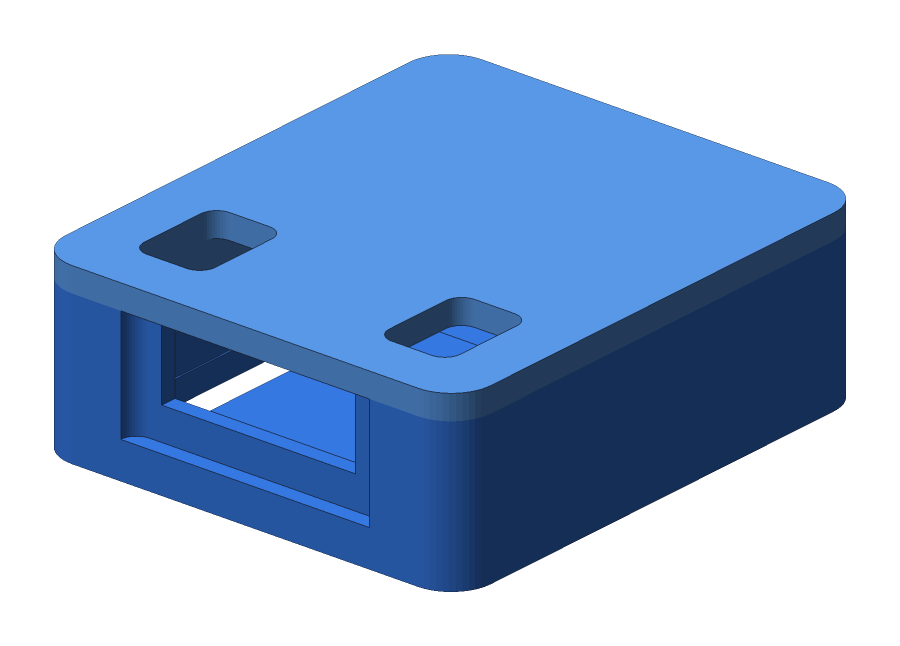
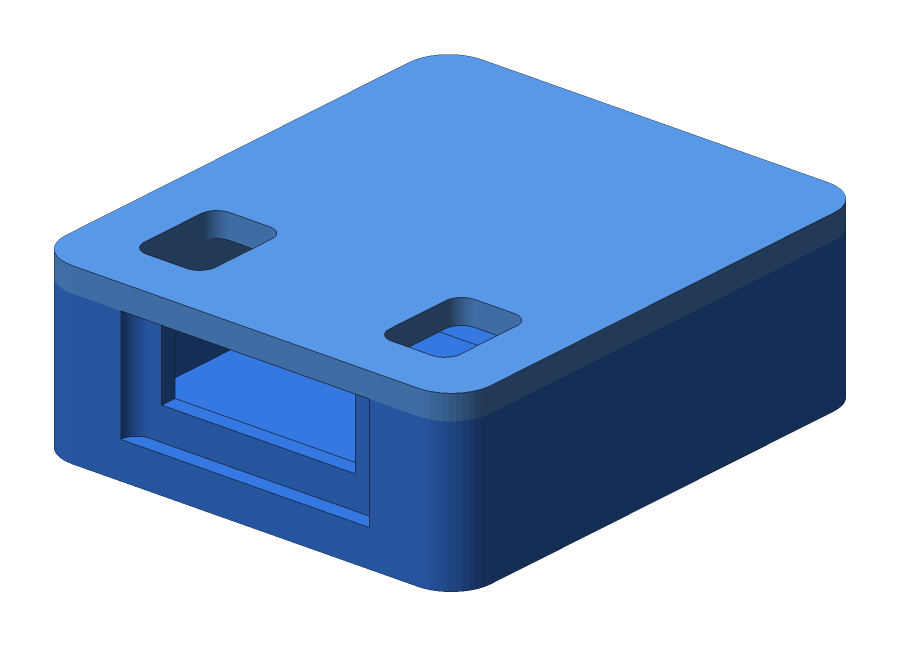
feat: remove header slots from base floor
Add HEADER_SLOTS flag (default False). Floor stays flat; lid LED and
RESET windows are unchanged.

Changed region(s): [[0.1867, 0.5263, 0.3111, 0.6502]]

diff --git a/xiao_samd21_case.py b/xiao_samd21_case.py
@@ -23,7 +23,8 @@ PIN_ROW_Y = 15.24 / 2  # pin rows at +-7.62 from center
 PINS = 7
 
 # --- Case --------------------------------------------------------------------
-HEADERS = True        # True: slots for male headers (fits a breadboard)
+HEADERS = True        # True: raise the PCB by the header height
+HEADER_SLOTS = False  # True: cut floor slots for the male headers (fits a breadboard)
 HEADER_H = 2.5        # header plastic height (= PCB height above the bottom)
 CLR = 0.25            # PCB-to-wall clearance
 WALL = 1.6
@@ -77,7 +78,7 @@ def base():
         b += box(ledge, IN_W, PCB_Z - FLOOR, x=s * (IN_L - ledge) / 2, z=FLOOR)
     # center support
     b += box(4.0, 6.0, PCB_Z - FLOOR, z=FLOOR)
-    if HEADERS:
+    if HEADER_SLOTS:
         for s in (-1, 1):
             b -= box(slot_len, 2.9, FLOOR + 2, y=s * PIN_ROW_Y, z=-1)
     # U-shaped USB-C opening, open at the top (the PCB drops in from above)

diff --git a/render_previews.py b/render_previews.py
@@ -130,7 +130,7 @@ def board(z0):
     pcb = c.box(c.PCB_L, c.PCB_W, c.PCB_T, z=z0)
     usb = c.box(7.4, c.USB_W, c.USB_H, x=-c.PCB_L / 2 - c.USB_OVERHANG + 3.7, z=z0 + c.PCB_T)
     parts = [(pcb, PCB_COLOR), (usb, USB_COLOR)]
-    if c.HEADERS:
+    if c.HEADER_SLOTS:
         for s in (-1, 1):
             hdr = c.box(c.PINS * c.PIN_PITCH, c.PIN_PITCH, c.HEADER_H, y=s * c.PIN_ROW_Y, z=z0 - c.HEADER_H)
             parts.append((hdr, HEADER_COLOR))

diff --git a/README.md b/README.md
@@ -4,7 +4,7 @@ Two-part case (base + snap-fit lid) for the
 [Seeed Studio XIAO SAMD21](https://wiki.seeedstudio.com/Seeeduino-XIAO/).
 
 - Outer size: **24.7 × 21.5 × 8.5 mm**
-- Bottom slots for male headers: the case sits flush with the header plastic and plugs into a breadboard.
+- Flat bottom: no floor slots for the male headers (set `HEADER_SLOTS = True` to cut them).
 - USB-C opening with an outer recess for the cable overmold.
 - Lid windows to see the LEDs and reach the RESET pads.
 
@@ -63,7 +63,7 @@ Notes:
 
 ## Assembly
 
-1. Solder the male headers with the pins facing down (if `HEADERS = True`).
+1. Skip the male headers, or solder them only if `HEADER_SLOTS = True`.
 2. Drop the board into the base from above, with the USB-C towards the U opening.
 3. Press the lid on: the lip goes into the base and the 4 posts hold the PCB at the corners.
 4. To reset, short the pads through the window with tweezers.
@@ -76,7 +76,8 @@ All dimensions are at the top of `xiao_samd21_case.py`. Measure the board with c
 |---|---|---|
 | `LIP_CLR` | 0.15 | Lid too tight: 0.2. Lid too loose: 0.1 |
 | `CLR` | 0.25 | Clearance between PCB and wall |
-| `HEADERS` | `True` | `False` for a closed bottom, no headers |
+| `HEADERS` | `True` | `False` to lower the PCB (no header height) |
+| `HEADER_SLOTS` | `False` | `True` to cut floor slots for male headers |
 | `PCB_T` | 1.2 | Actual PCB thickness |
 | `USB_OVERHANG` | 1.0 | How far the USB-C sticks out past the PCB |
 | `WIN_Y`, `WIN_X_FROM_USB_END` | 6.2, 0.8 | Position of the LED/RESET windows |
